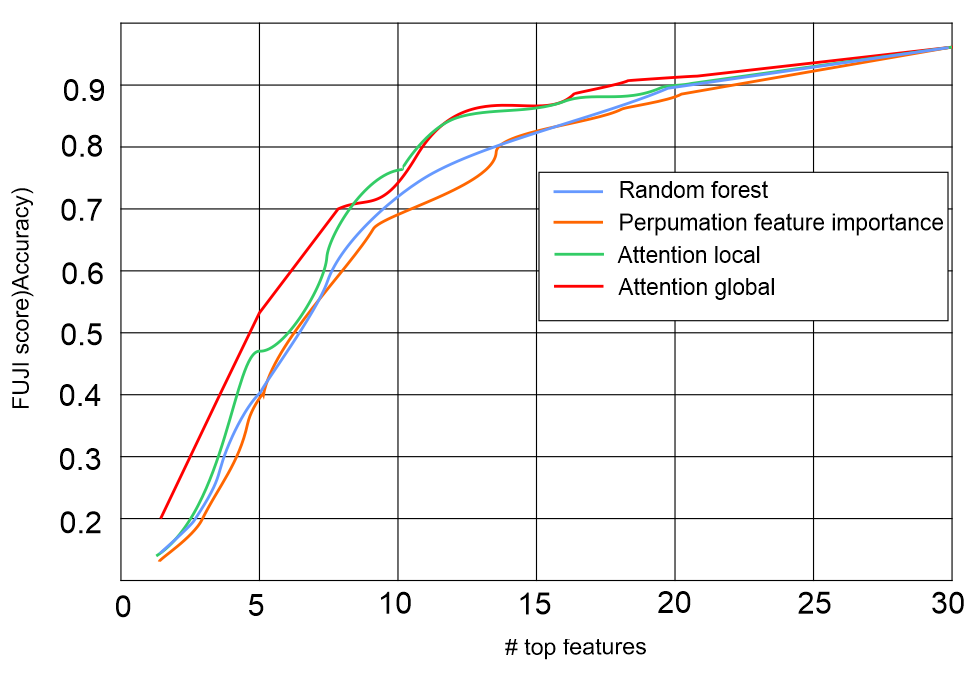
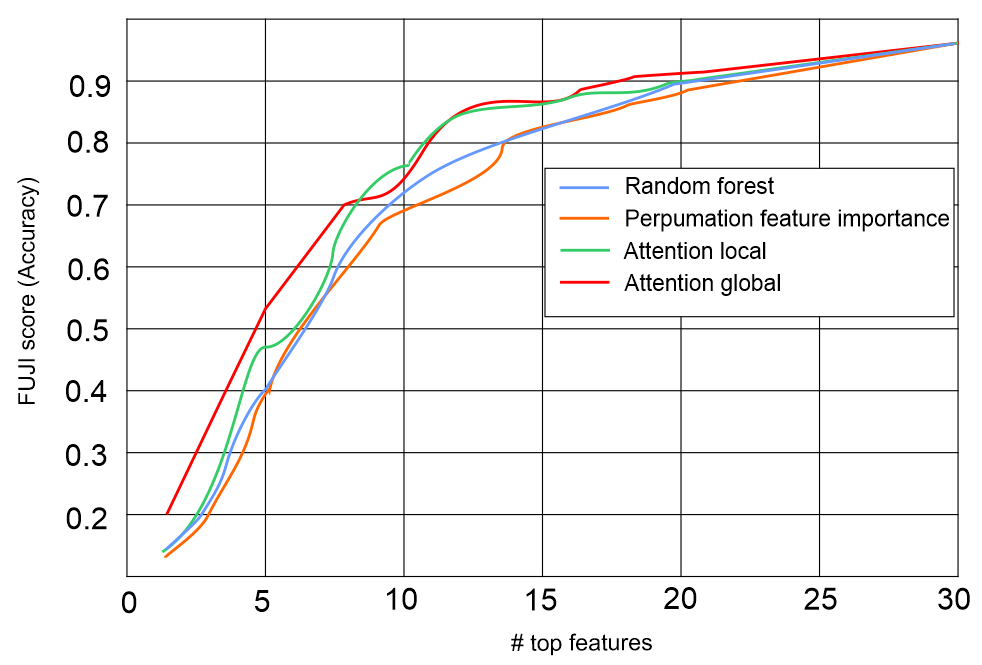
Updates from Overleaf

Changed region(s): [[0.0, 0.0301, 1.0, 0.9925]]

diff --git a/ExplainablePredictions/ExplainablePredictions.tex b/ExplainablePredictions/ExplainablePredictions.tex
@@ -1242,31 +1242,36 @@ Feature interactions among globally important features with attention mechanism 
     \label{fig:fuji_score}
 \end{figure*}
 
- In contrast, the proposed SANs exhibit a consistent
-mapping between the input space and the meaning of individual features, making possible the aggregation schemes considered in this
-work.
-In terms of general performance, this paper proves empirically that
-SANs can emit attention vectors that offer similar feature rankings
+\begin{figure*}
+	\centering
+	\begin{subfigure}{.48\linewidth}
+		\centering
+		\includegraphics[scale=0.7]{images/fuji_score.png}
+		\caption{FUJI score-based ranking comparison}
+        \label{fig:fuji_score_compare}
+	\end{subfigure}
+	\hspace{2mm}
+	\begin{subfigure}{0.48\linewidth}
+		\centering
+		\includegraphics[scale=0.6]{images/am_fi_compare.png}
+		\caption{Feature importance}
+        \label{fig:relative_fi_am}
+	\end{subfigure}
+	\caption{a) The higher the FUJI score, higher the pairwise algorithmic similarity, when a certain number of features is considered, b) Relative feature importance for top-30 features} 
+	\label{fig:comgenes}
+\end{figure*}
+
+In contrast, the proposed SANs exhibit a consistent mapping between the input space and the meaning of individual features, making possible the aggregation schemes considered in this work. In terms of general performance, this paper proves empirically that SANs can emit attention vectors that offer similar feature rankings
 relevant for an external classifier (e.g., Logistic Regression). As the
 purpose of this work was not excessive grid search across possible
 architectures, which we leave for further work. Further, the proposed SANs
 shall be compared to the recently introduced TabNet [2], an approach
 that also attempts to unveil the feature importance landscape via sequential attention mechanism.
 
-We next discuss the similarities between the considered feature importance approaches. The results are presented as FUJI curves,
-where we omit the space of all possible (pairwise) comparisons to
-the ones, that are compared with the proposed SANs. The results are
-shown in Figure 3.
-The considered visualizations depict at least two general patterns.
-First, the attentionClean and attention-based importances are indeed
-very similar. We remind the reader that the difference between the
-two is that attentionClean only takes into account the correctly classified instances. Next, we can observe that ReliefF and Random Forestbased importances are different. Further, the global attention appears
-the most similar to Random Forest importances. Overall areas below
-FUJI curves are shown in Figure 4.
-6.3 Classification performance
-We next discuss the classification performance results. Let us remind
-the reader that the results show how the logistic regression (C = 1, L2
-normalization) classifier performs when parts of the feature space are
+We next discuss the similarities between the considered feature importance approaches. The results are presented as FUJI curves, where we omit the space of all possible (pairwise) comparisons to the ones, that are compared with the proposed SANs. The results are shown in Figure 3. The considered visualizations depict at least two general patterns.
+
+First, the attentionClean and attention-based importances are indeed very similar. We remind the reader that the difference between the two is that attentionClean only takes into account the correctly classified instances. Next, we can observe that ReliefF and Random Forestbased importances are different. Further, the global attention appears the most similar to Random Forest importances. Overall areas below
+FUJI curves are shown in Figure 4. 6.3 Classification performance We next discuss the classification performance results. Let us remind the reader that the results show how the logistic regression (C = 1, L2 normalization) classifier performs when parts of the feature space are
 pruned according to a given feature importance vector. The results
 are shown in Figure 5.
 The first observation—to our knowledge not known to the
@@ -1304,7 +1309,7 @@ Local feature impact identifies which features have the greatest positive or neg
 
 %\hspace*{3.5mm} 
 
-\hspace*{3.5mm} Further, to find which patients are similar to the patient being currently diagnosed are identified in \cref{fig:similar_patients}, as indicated by the last row in the table labelled as "Weight". This is a useful way of explaining to end users~(e.g., a patient or for doctor's understanding) that because Profile `A', Profile `B' and Profile `C' had very similar variables to specific row. Therefore, the model predicted a certain outcome. In this case, Profile 0 is 55.76\% similar, Profile 2 is 23.65\% similar, and Profile 4 is 15.26\% similar to the sample or row number 1 that we are trying to explain. Now the end user can comprehend how the model is making its decisions by looking at that patients.  
+\hspace*{3.5mm} Further, to find which patients are similar to the patient being currently diagnosed are identified by computing the cosine similarity measure, as indicated by the last row in the table labelled as "Weight" in in \cref{fig:similar_patients}. This is a useful way of explaining to end users~(e.g., a patient or for doctor's understanding) that because Profile `A', Profile `B' and Profile `C' had very similar variables to specific row. Therefore, the model predicted a certain outcome. In this case, Profile 0 is 55.76\% similar, Profile 2 is 23.65\% similar, and Profile 4 is 15.26\% similar to the sample or row number 1 that we are trying to explain. Now the end user can comprehend how the model is making its decisions by looking at that patients.  
 
 \subsubsection{Sensitivity analyses: what-if and leave-one-feature-out}
 To quantitatively validate the feature-level relevances, what-if analysis is carried out. As shown in \cref{fig:what_if}, genes TFAP2A, VPS9D1-AS1, MTND2P28, ADCY3, FOXP4, GPRIN1, EFNB1, FABP4, MGP, AC020916-1, CDC7, CHADL, RPL10P6, OASL, and PRSS16 are most sensitive to making changes. On the other hand, making changes to SEMA4C, CWH43, HAGLROS, SEMA3E, and IVL does not have significant impact on the prediction. 
@@ -1328,7 +1333,7 @@ Display similar profiles and the extent to which they are similar to the chosen 
 	\vspace{-4mm}
 \end{figure}
 
-\hspace*{3.5mm} Let's pick a random sample from the test set and perform the inferencing. Let's the model predicts the sample of COAD cancer types. As shown in \cref{fig:explain_term_wise_religious_hate}, features on the right side are positive, while features on the left are negative. It turns out that features like TFAP2A,  VPS9D1-AS1, MTND2P28, ADCY3, nad FOXP4 are positive for COAD class, for this single inferencing. The feature TFAP2A has the highest positive score of 0.29 for class COAD. Our model predicts this as a COAD cancer type too, with the probability of 55\%. Besides, the sample could be of BRCA cancer type with a probability of 29\%.  
+\hspace*{3.5mm} First, we randomly pick a sample from the test set and perform the inferencing. Let's the model predicts the sample of COAD cancer types. As shown in \cref{fig:explain_term_wise_religious_hate}, features on the right side positively impacting the prediction, while features on the left are negatively. It turns out that features like TFAP2A,  VPS9D1-AS1, MTND2P28, ADCY3, nad FOXP4 are positive for COAD class, for this single inferencing. The feature TFAP2A has the highest positive score of 0.29 for class COAD. Our model predicts this as a COAD cancer type too, with the probability of 55\%. Besides, the sample could be of BRCA cancer type with a probability of 29\%.  
 
 \hspace*{3.5mm} However, if we remove feature TFAP2A from the profile, we would expect the model to predict the label COAD with a probability of 26\%~(i.e., 55\% $-$ 29\%), making the actual prediction to be BRCA cancer type. On the contrary, features IVL, PRSS16, EFNB1, and CWH43 are more important features, having impacts of 0.23, 0.17, 0.123, and 0.07, respectively for the class BRCA. These features not only can reveal the relevance of important feature for classifier’s decision, but also signify that removing most relevant biomarkers will impact the prediction decision, accordingly to their relevance value. 
 
